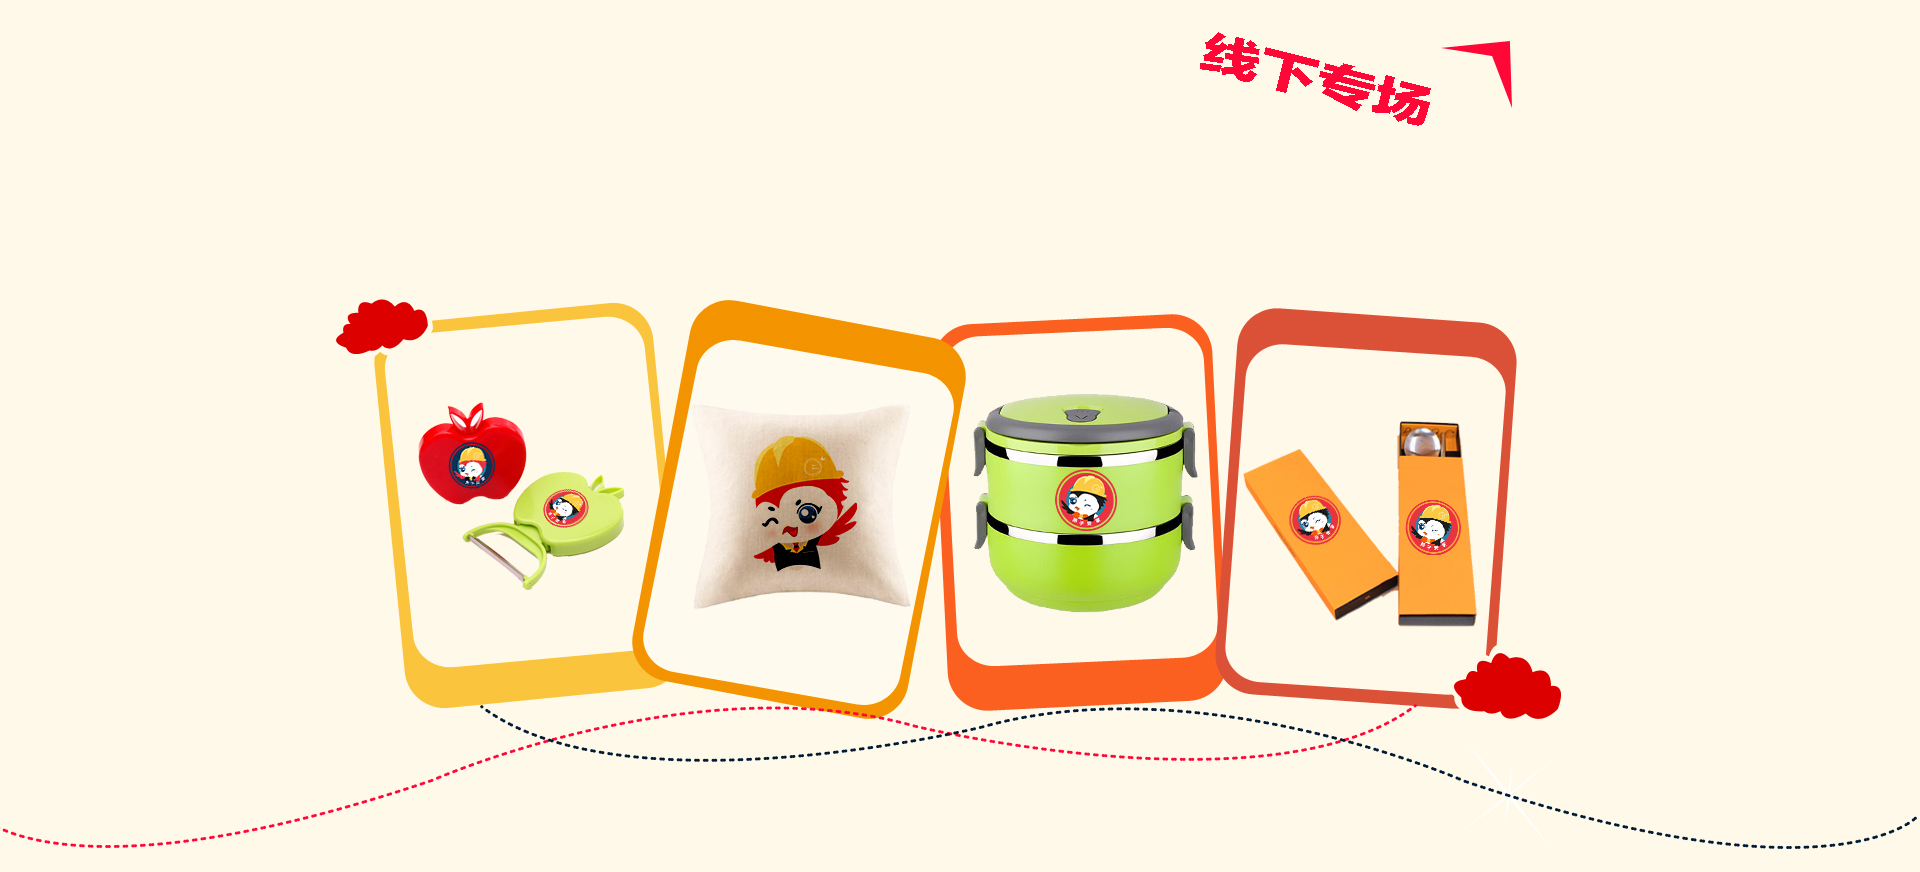
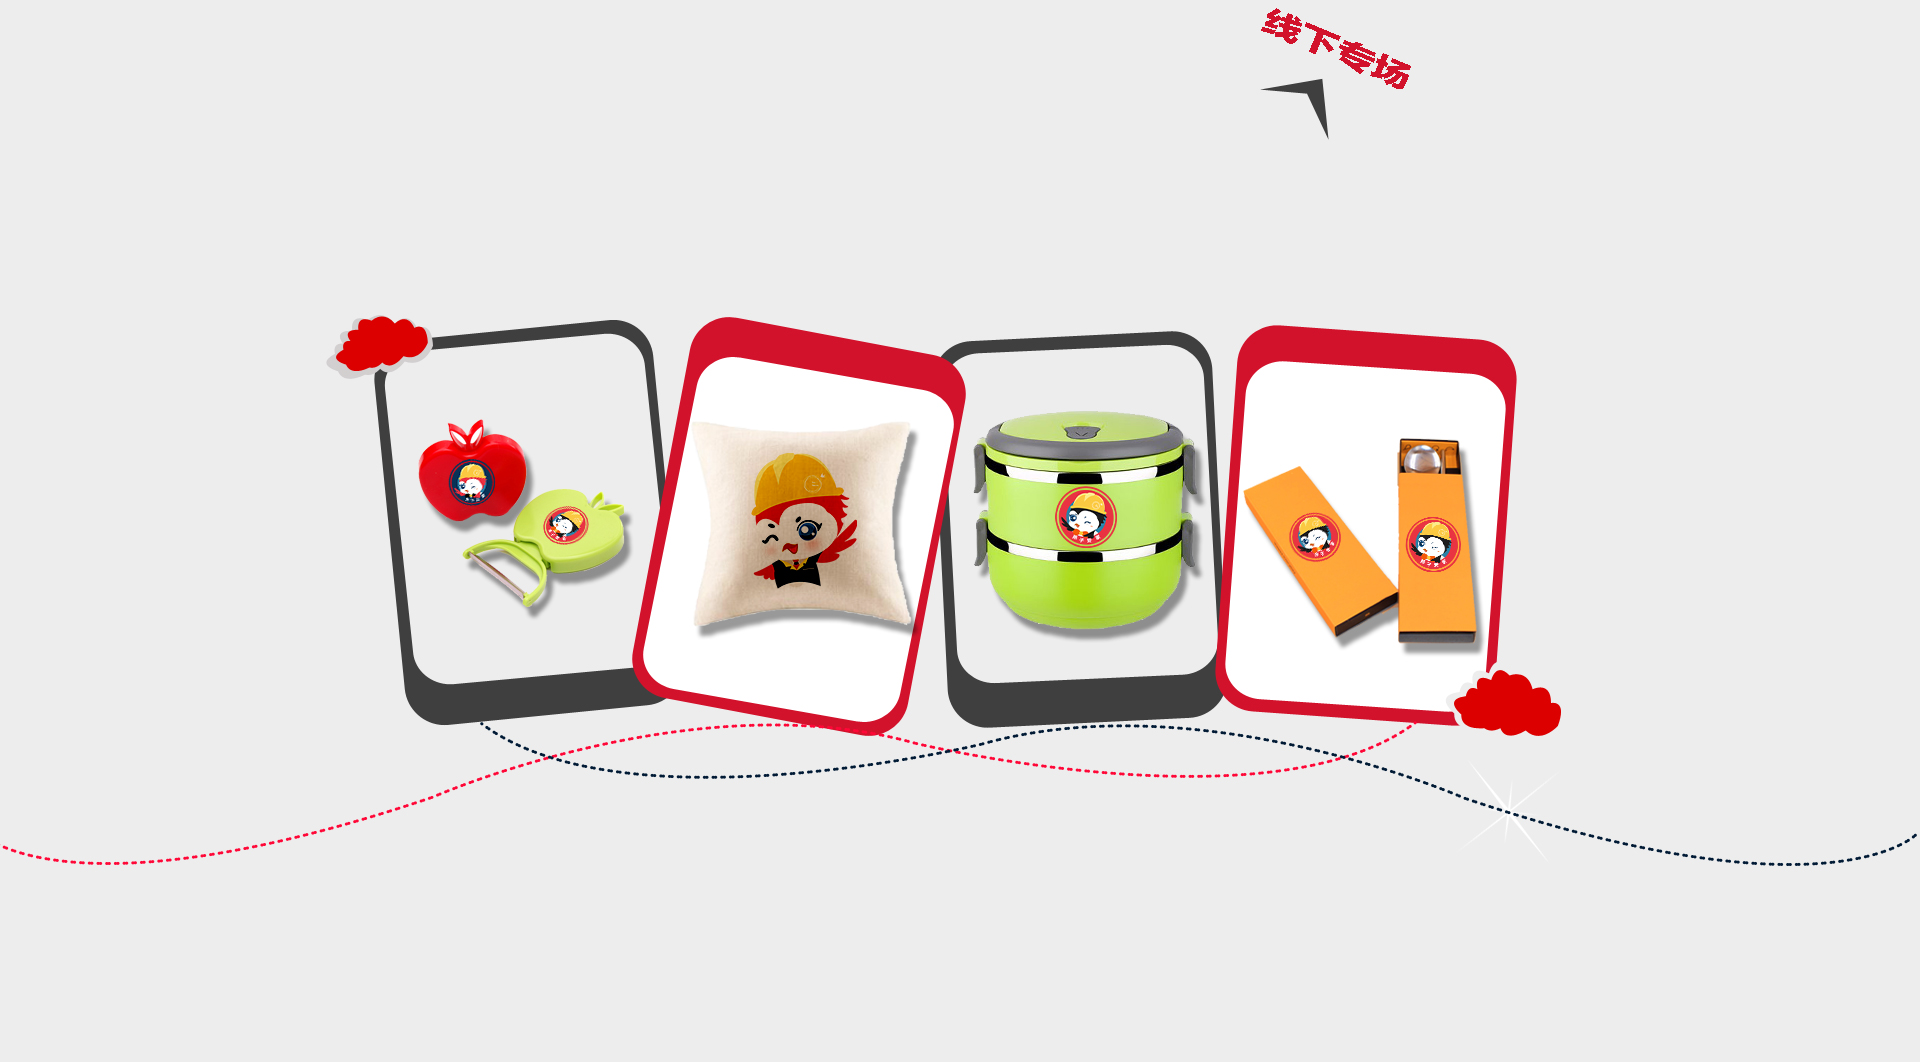
修改朗润活动页面

diff --git a/res/css/langrun_1212.css b/res/css/langrun_1212.css
@@ -10,23 +10,33 @@ html,body{font-size:14px;font-family:microsoft yahei;background-color:#001a35;}
 }
 
 /* top */
-.er_div1{position:relative;height:1257px;background:url("../images/langrun_img/er_div1.jpg") no-repeat center center;}
+.er_div1{position:relative;height:1240px;background:url("../images/langrun_img/er_div1.jpg") no-repeat center center;}
 .er_div1  .red_box_btn{margin:0 auto;display:block;width:281px;height:91px;background:url("../images/langrun_img/redBox_btn.png") no-repeat center center;}
-.er_div1 .red_box{position:absolute;left:0;right:0;text-align:center;top:596px;}
+.er_div1 .red_box{position:absolute;left:0;right:0;text-align:center;top:696px;}
 .er_div1  .tip{position:absolute;left:0;right:0;text-align:center;bottom:88px;font-size:26px;}
 .er_div1  .tip h4{color:#fff;margin-left:318px;}
 .er_div1  .tip p{display:inline-block;color:#fffefd;margin-left:318px;margin-top:10px;font-size:20px;line-height:37px;}
 
-.er_div2{font-size:22px;position:relative;height:872px;background:url("../images/langrun_img/er_div2.jpg") no-repeat center center;}
-.er_div2 .tip{position:absolute;left:0;right:0;text-align:center;top:168px;font-size:26px;}
+.er_div2{font-size:22px;position:relative;height:1062px;background:url("../images/langrun_img/er_div2.jpg") no-repeat center center;}
+.er_div2 .tip{position:absolute;left:0;right:0;text-align:center;bottom:53px;font-size:26px;}
 .er_div2  .tip p{color:#001a35;margin:0 auto;width:620px;font-size:22px;line-height:37px;}
+.er_div2 .tip span.color{color:#d2122b;}
 
-.er_div3{color:#001a35;font-size:22px;position:relative;height:675px;background:url("../images/langrun_img/er_div3.jpg") no-repeat center center;}
-.er_div3  .tip{position:absolute;left:0;right:0;text-align:center;top:342px;font-size:26px;}
-.er_div3  .tip p{display:inline-block;width:822px;text-align:center;margin:0 auto;font-size:22px;line-height:37px;}
-.er_div3  .tip span.color{color:#d6000f;font-size:26px;display:inline-block;margin-bottom:39px;}
+.er_div3{color:#3e3f3f;font-size:22px;position:relative;height:1348px;background:url("../images/langrun_img/er_div3.jpg") no-repeat center center;}
+.er_div3  .tip{position:absolute;left:0;right:0;text-align:center;top:142px;font-size:26px;}
+.er_div3  .tip p{display:inline-block;width:831px;text-align:center;margin:0 auto;font-size:22px;line-height:37px;}
+.er_div3  .tip span.color{color:#d6000f;font-size:26px;display:inline-block;margin-bottom:8px;}
+.er_div3  .tip p.p1  i{font-style:normal;color:#fac43d;display:inline-block;width:30px;height:30px;line-height:30px;text-align:center;background:url('../images/langrun_img/i_bg.png') no-repeat center center;}
+.er_div3  .tip p.p1{text-align:left;color:#3e3f3f;}
+.er_div3  .tip p.p2{margin-top:450px;}
+.er_div3  .tip  .p2 span.color1{display:block;color:#d6000f;font-size:26px;line-height:50px;text-align:left;margin-left:40px;}
+.er_div3  .tip  .p2 span.color2{display:block;color:#3f3f3f;font-size:26px;text-align:left;line-height:50px;margin-left:40px;}
+.er_div3  .tip  .p2 span.color3{display:inline-block;color:#3f3f3f;font-size:30px;line-height:100px;}
+.er_div3  .tip  .p2  i.style{display:inline;font-style:normal;font-size:40px;color:#d6000f;} 
+.er_div3  .tip  .p2 span.color4{font-size:24px;color:#d6000f;}
+.er_div3  .tip  .p2 span.color5{font-size:24px;color:#3e3f3f;}
 
-.er_div4{font-size:20px;position:relative;height:1241px;background:url("../images/langrun_img/er_div4.jpg") no-repeat center center;}
+.er_div4{font-size:20px;position:relative;height:886px;background:url("../images/langrun_img/er_div4.jpg") no-repeat center center;}
 .er_div4 .tip{position:absolute;left:0;right:0;text-align:center;top:272px;font-size:26px;}
 .er_div4  .tip p{padding-left:220px;text-align:left;color:#28425a;margin:0 auto;width:820px;font-size:22px;line-height:37px;}
 .er_div4  .tip p  span.color{color:#f15a25;}

diff --git a/anjia/langrun_1212.html b/anjia/langrun_1212.html
@@ -40,38 +40,31 @@
 	</div>
 	<div class="er_div2">
 		<div class="tip">
-			<p>在朗润实体店关注微信服务号“燕子安家”并注册，即可随机获得实物礼品.</p>
+			<p><span class="color">朗润装饰</span>携手<span class="color">燕子安家</span>，为您装更好的家！<br><span class="color">让您在装修时减轻预算压力</span>，<br>更加<span class="color">放心</span>、<span class="color">安心</span>的装修，在年末拥有自己的温暖的新居。</p>
 		</div>	
 	</div>
 	<div class="er_div3">
 		<div class="tip">
-			<!-- <p class="p1">
-				<span class="color">生活家是一家集装饰设计、施工、家具软装等为一体的整体家居企业。</span><br>
-				全国住宅装饰装修行业知名品牌企业<br>
-				住宅装饰行业十年最具市场影响力的优秀企业<br>
-				中国健康整装领导者<br>
-				中国高品质整体家装领军企业
-			</p> -->
-			<p class="p2">
-				<span class="color">朗润装饰专业致力于一站式整体家装服务,朗润装饰 懂爱，更懂家。</span><br>
-				工期延一天，赔一千；增项全免费；<br>
-				环保不达标全额退款！绿色环保家居品牌
-			</p>			
-		</div>	
-	</div>
-	<div class="er_div4">
-		<div class="tip">
-			<p>
-				<i>1.</i>  活动时间：<span class="color">2015年12月10日起至2016年1月10日止。</span><br>
-				<i>2.</i>  红包使用规则：<br>
+			<p class="p1">
+				<i>1</i>  活动时间：<span class="color">2015年12月10日起至2016年1月10日止。</span><br>
+				<i>2</i>  红包使用规则：<br>
 				&nbsp;&nbsp;&nbsp;&nbsp;&nbsp;A、活动期间凡注册均有机会获得红包。<br>
 				&nbsp;&nbsp;&nbsp;&nbsp;&nbsp;B、所有红包使用期限为1个月，过期作废。<br>
 				&nbsp;&nbsp;&nbsp;&nbsp;&nbsp;C、红包只能用来抵用家装分期服务费且一份合同只能抵用一次。<br>
 				&nbsp;&nbsp;&nbsp;&nbsp;&nbsp;D、分期服务费大于等于5000元方能使用<span class="color">1212</span>元红包。<br>
-				<i>3.</i>  所有实物礼品只能在燕子安家合作商线下实体店由工作人员发放（发完为止）。<br>
-				<i>4.</i>  本活动的最终解释权归北京德维投资管理有限公司所有。
+				<i>3</i>  所有实物礼品只能在燕子安家合作商线下实体店由工作人员发放（发完为止）。<br>
+				<i>4</i>  本活动的最终解释权归北京德维投资管理有限公司所有。
 			</p>
+			<p class="p2">
+				<span class="color1">朗润装饰专业致力于一站式整体家装服务,朗润装饰 懂爱，更懂家。</span>
+				<span class="color2">12年沉淀，不仅拥有集团化材料采购平台，国际定制主材同步欧洲，<br>更有主案软装双设计，为您打造健康环保家！</span>
+				<span class="color3">感谢共同走过的<i class="style">68760户</i>客户</span><br>
+				<span class="color4">郑重承诺：</span><span class="color5">工期延一天，赔一千；<br>&nbsp;&nbsp;&nbsp;&nbsp;&nbsp;&nbsp;&nbsp;&nbsp;&nbsp;&nbsp;&nbsp;&nbsp;&nbsp;增项全免费；<br>&nbsp;&nbsp;&nbsp;&nbsp;&nbsp;&nbsp;&nbsp;&nbsp;&nbsp;&nbsp;&nbsp;&nbsp;&nbsp;环保不达标全额退款！</span>
+			</p>			
 		</div>	
+	</div>
+	<div class="er_div4">
+
 	</div>
     <div class="ui-bottom">
     </div>

diff --git a/res/js/langrun_1212.js b/res/js/langrun_1212.js
@@ -65,7 +65,9 @@ $(function(){
 				else{
 					var msg = data.message || "领取失败";
 					Utils.alert(msg);
-					location.href = "/anjia/usercenter.html";
+					setTimeout(function(){
+						location.href = "/anjia/usercenter.html";
+					},2000);
 				}
 			},
 			error:function(data){

diff --git a/res/js/shenghuojia_1212.js b/res/js/shenghuojia_1212.js
@@ -65,7 +65,9 @@ $(function(){
 				else{
 					var msg = data.message || "领取失败";
 					Utils.alert(msg);
-					location.href = "/anjia/usercenter.html";
+					setTimeout(function(){
+						location.href = "/anjia/usercenter.html";
+					},2000);
 				}
 			},
 			error:function(data){
